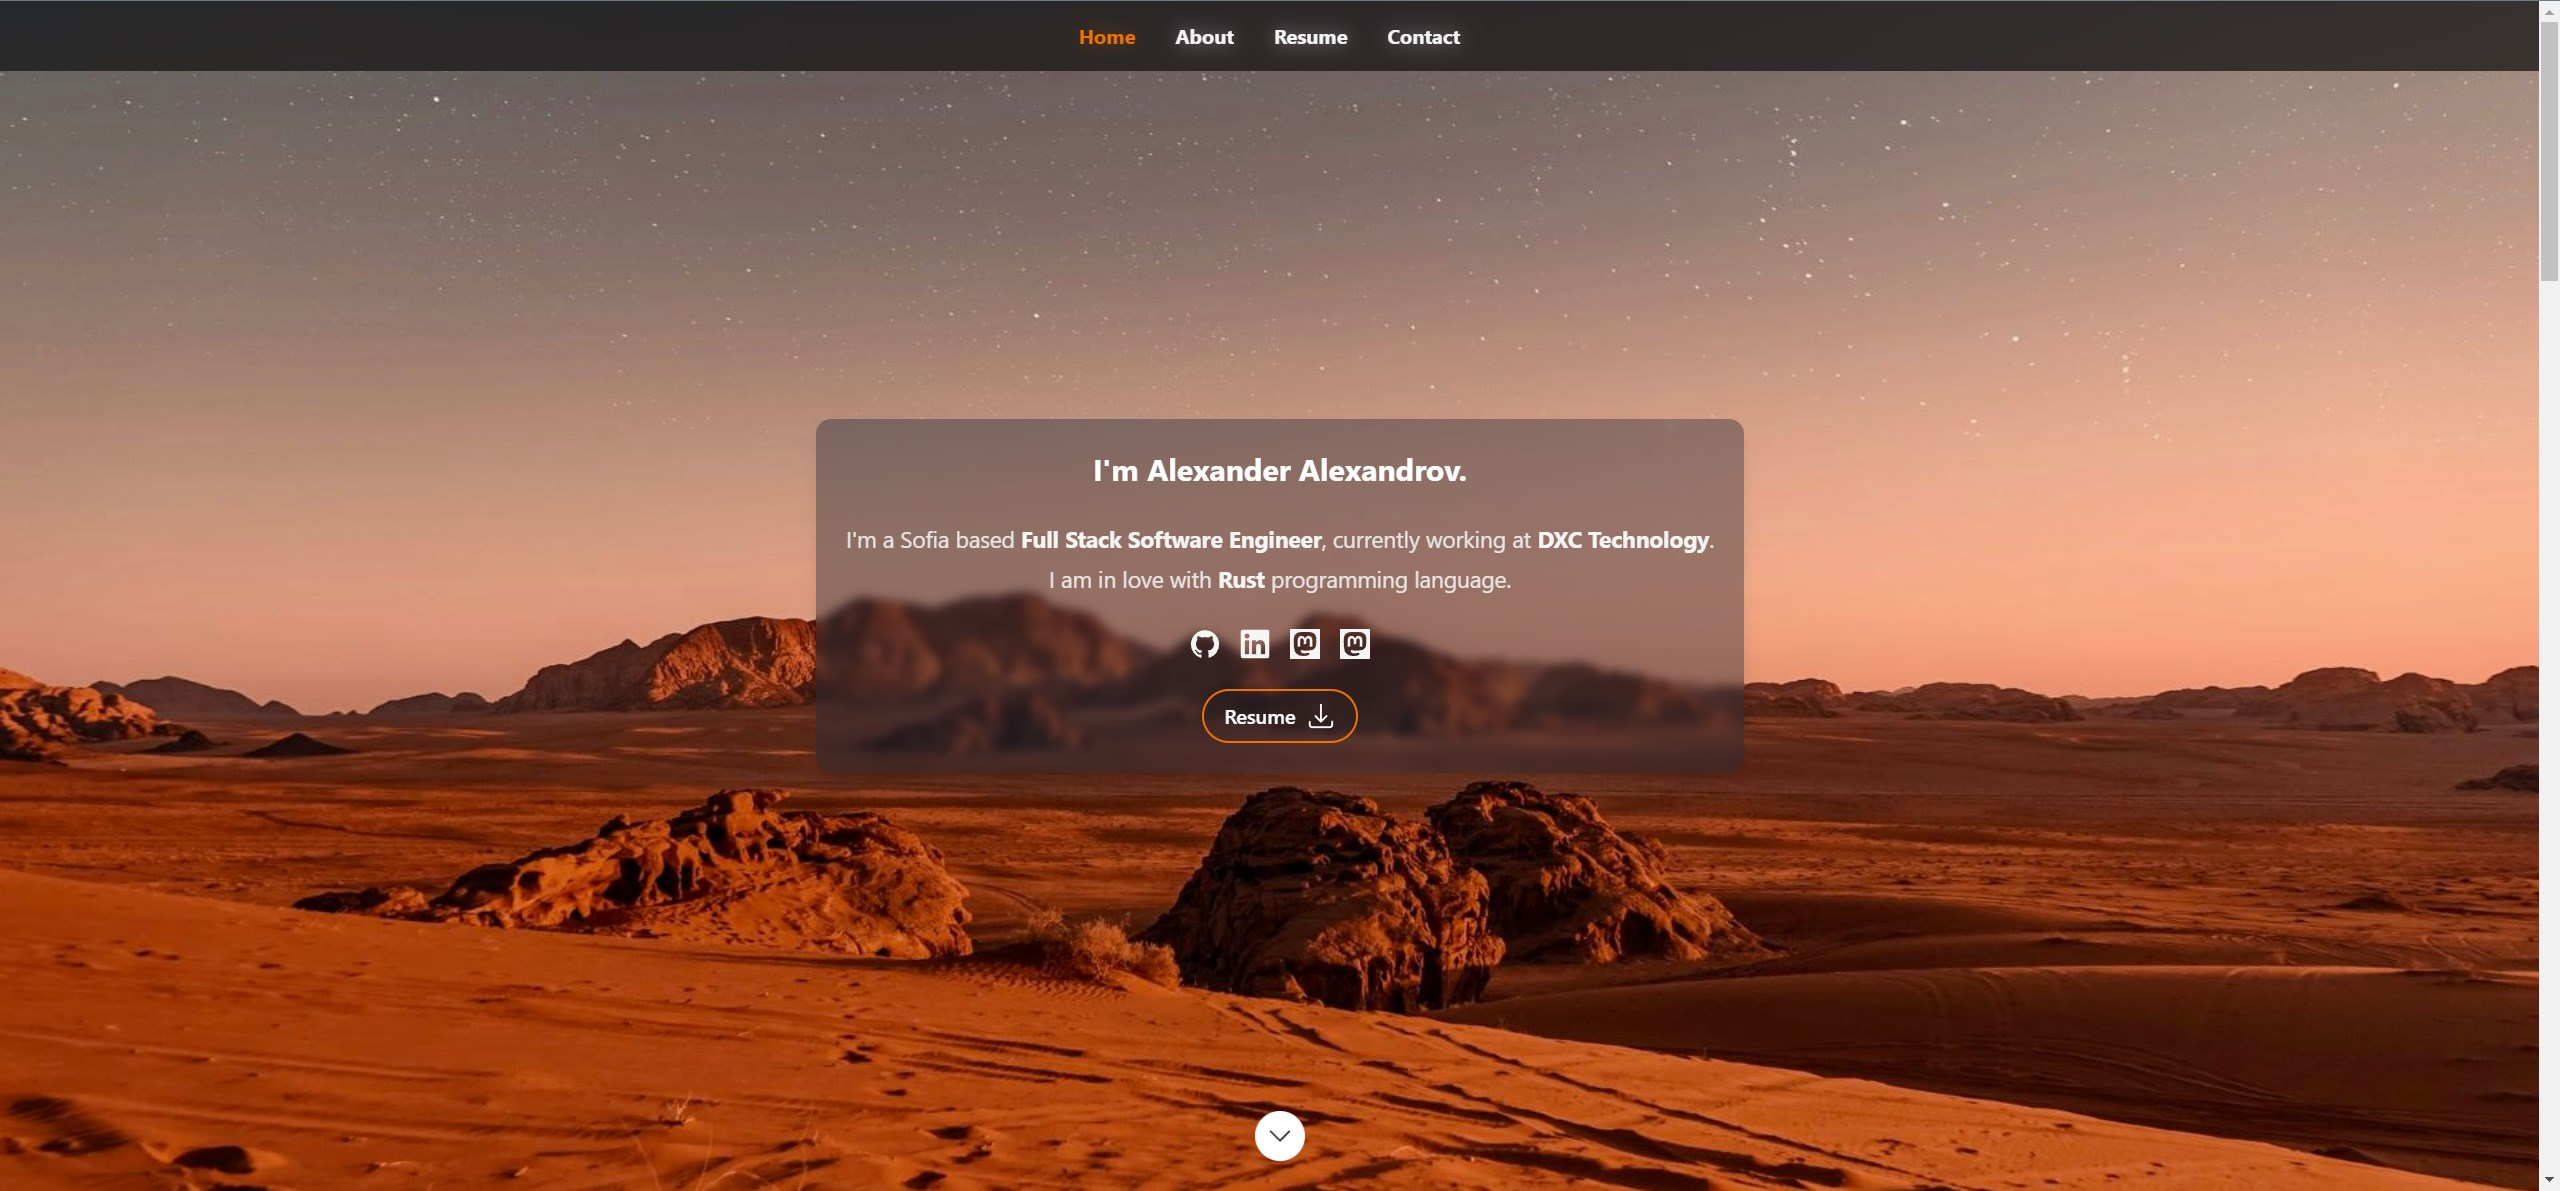
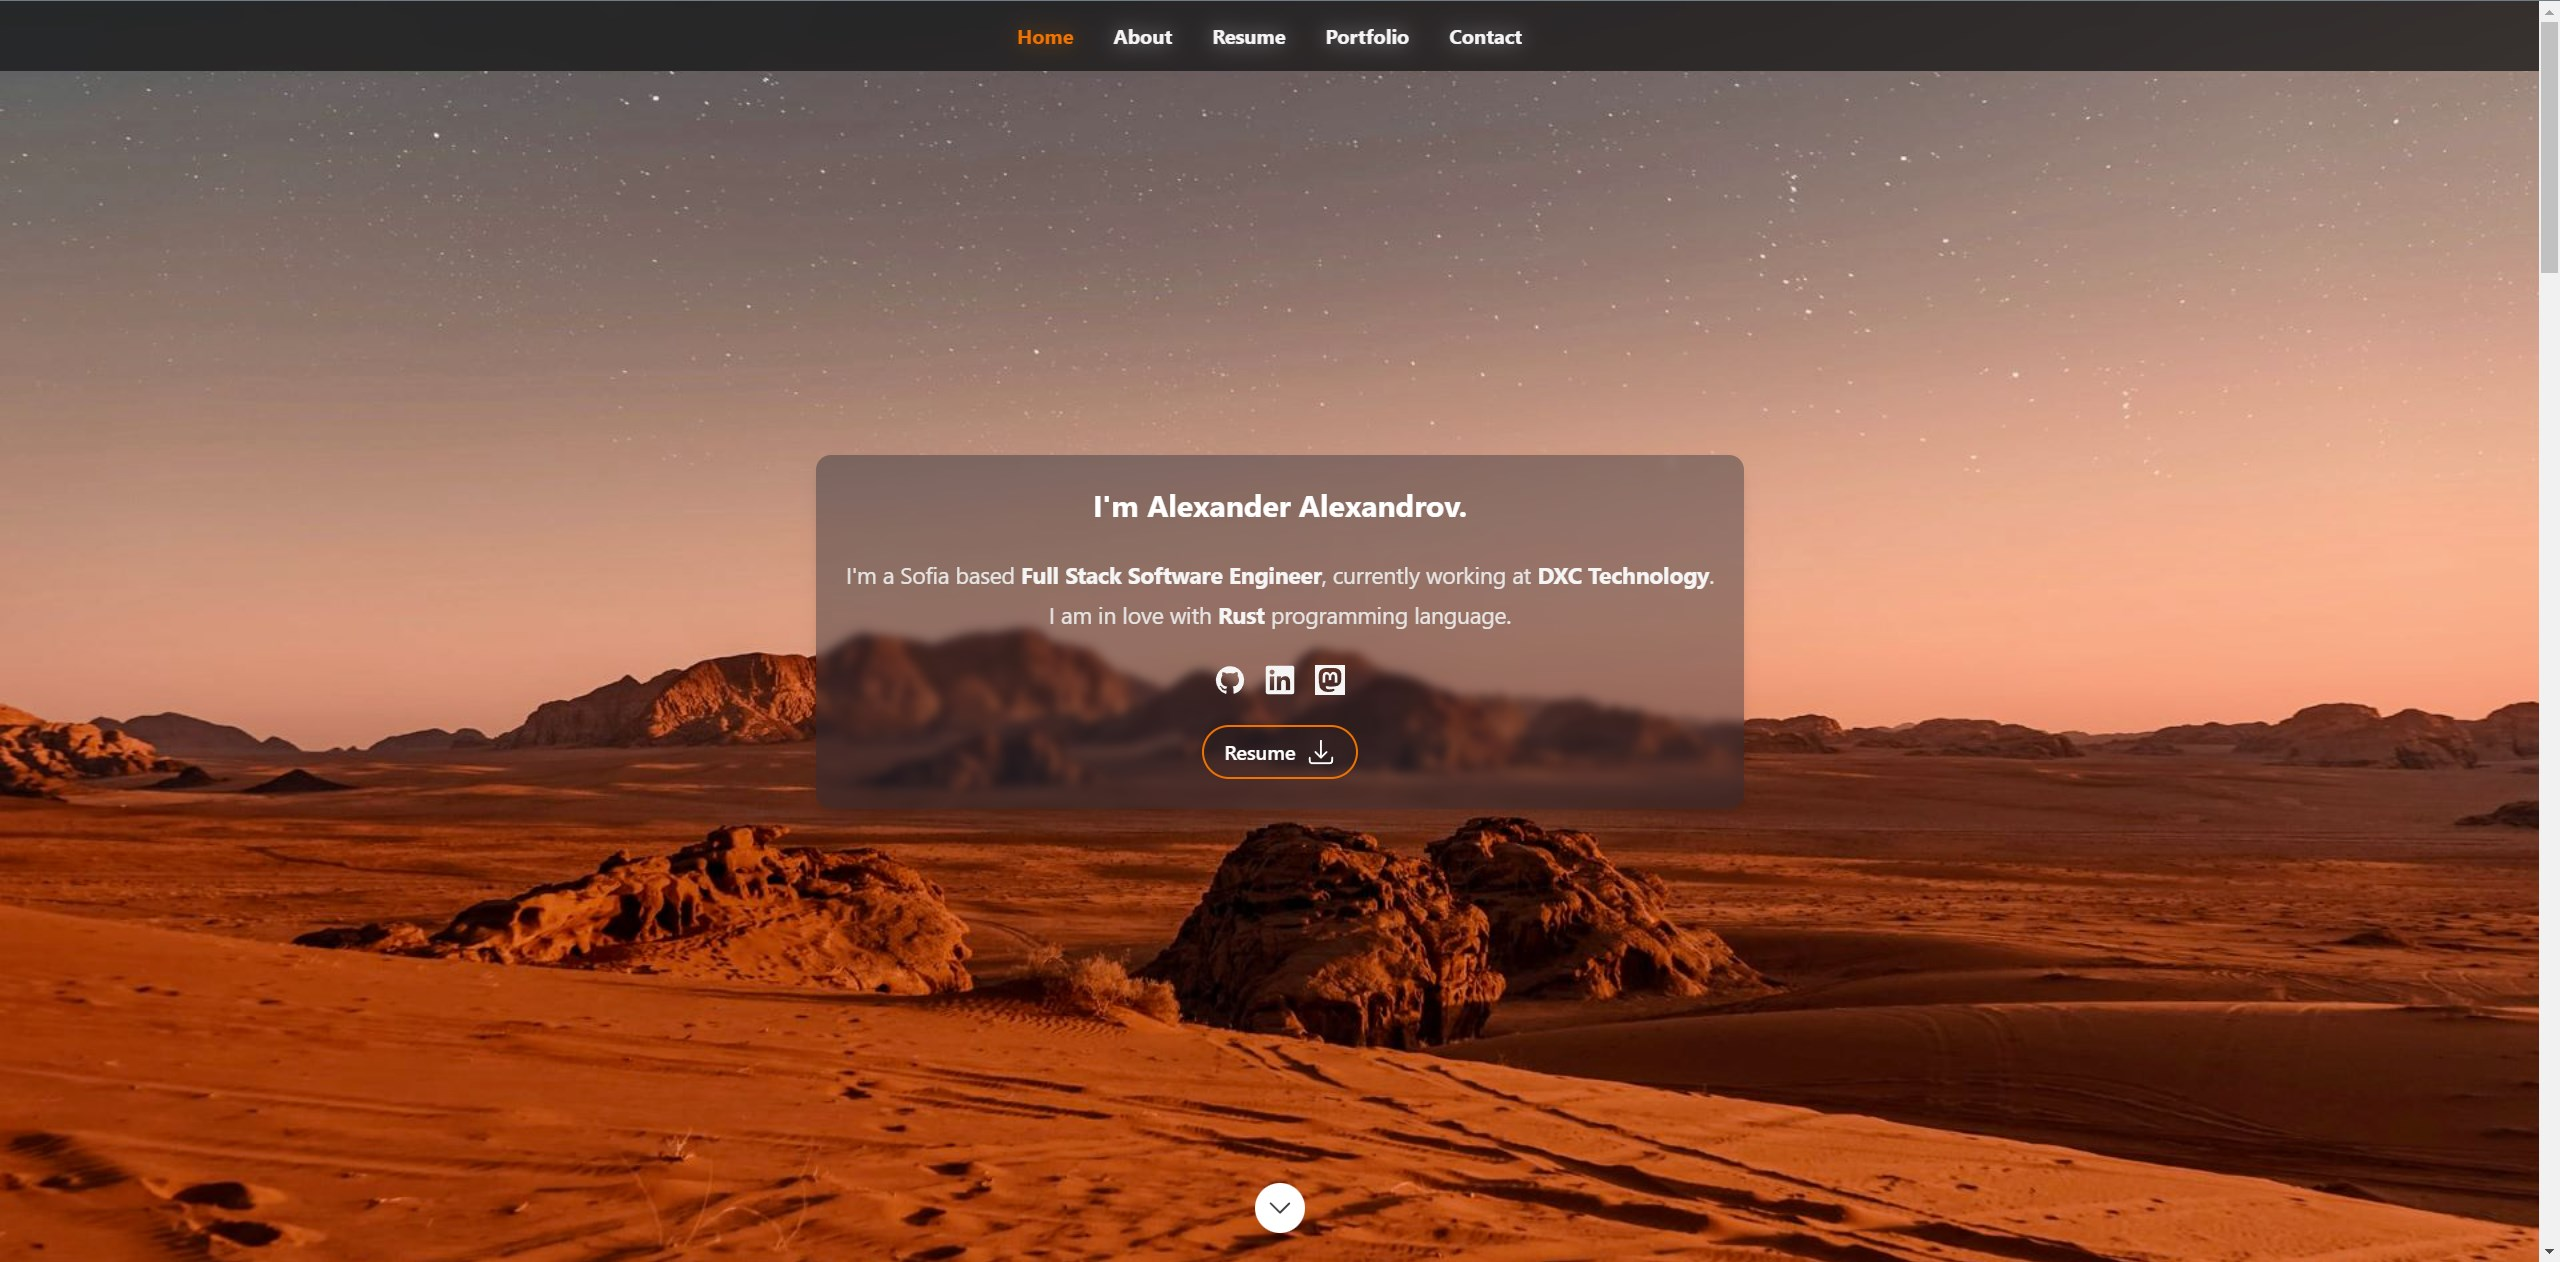
Add Portfolio section. Add Ferrocrypt to Portfolio section

diff --git a/src/components/Sections/Portfolio.tsx b/src/components/Sections/Portfolio.tsx
@@ -1,7 +1,10 @@
-import {ArrowTopRightOnSquareIcon} from '@heroicons/react/24/outline';
+import {ArrowTopRightOnSquareIcon, ChevronDownIcon} from '@heroicons/react/24/outline';
 import classNames from 'classnames';
 import Image from 'next/image';
 import {FC, memo, MouseEvent, useCallback, useEffect, useRef, useState} from 'react';
+// eslint-disable-next-line @typescript-eslint/ban-ts-comment
+// @ts-ignore
+import {Link} from 'react-scroll'
 
 import {isMobile} from '../../config';
 import {portfolioItems, SectionId} from '../../data/data';
@@ -12,24 +15,36 @@ import Section from '../Layout/Section';
 const Portfolio: FC = memo(() => {
     return (
         <Section className="bg-neutral-800" sectionId={SectionId.Portfolio}>
-            <div className="flex flex-col gap-y-8">
-                <h2 className="self-center text-xl font-bold text-white">Check out some of my work</h2>
-                <div className=" w-full columns-2 md:columns-3 lg:columns-4">
-                    {portfolioItems.map((item, index) => {
-                        const {title, image} = item;
-                        return (
-                            <div className="pb-6" key={`${title}-${index}`}>
-                                <div
-                                    className={classNames(
-                                        'relative h-max w-full overflow-hidden rounded-lg shadow-lg shadow-black/30 lg:shadow-xl',
-                                    )}>
-                                    <Image alt={title} layout="responsive" placeholder="blur" src={image}/>
-                                    <ItemOverlay item={item}/>
+            <div style={{marginBottom: -40}}>
+                <div className="flex flex-col gap-y-8">
+                    <h2 className="self-center text-xl font-bold text-white">Check out some of my work</h2>
+                    <div className=" w-full columns-2 md:columns-3 lg:columns-4">
+                        {portfolioItems.map((item, index) => {
+                            const {title, image} = item;
+                            return (
+                                <div className="pb-6" key={`${title}-${index}`}>
+                                    <div
+                                        className={classNames(
+                                            'relative h-max w-full overflow-hidden rounded-lg shadow-lg shadow-black/30 lg:shadow-xl',
+                                        )}>
+                                        <Image alt={title} layout="responsive" placeholder="blur" src={image}/>
+                                        <ItemOverlay item={item}/>
+                                    </div>
                                 </div>
-                            </div>
-                        );
-                    })}
+                            );
+                        })}
+                    </div>
                 </div>
+                <Link smooth={true} spy={true} to={SectionId.Contact}>
+                    <div className="flex justify-center">
+                        <div
+                            className="rounded-full bg-white p-1 ring-white ring-offset-2 ring-offset-gray-700/80 focus:outline-none focus:ring-2 sm:p-2"
+                            style={{cursor: "pointer"}}
+                        >
+                            <ChevronDownIcon className="h-5 w-5 bg-transparent sm:h-6 sm:w-6" />
+                        </div>
+                    </div>
+                </Link>
             </div>
         </Section>
     );

diff --git a/src/data/data.tsx b/src/data/data.tsx
@@ -12,7 +12,7 @@ import GithubIcon from '../components/Icon/GithubIcon';
 import LinkedInIcon from '../components/Icon/LinkedInIcon';
 import MastodonIcon from '../components/Icon/MastodonIcon';
 import homeImage from '../images/home-background.jpg';
-import portfolioImage1 from '../images/portfolio/portfolio-1.jpg';
+import portfolioImage1 from '../images/portfolio/ferrocrypt_screenshot.png';
 import profilePic from '../images/profilepic.jpg';
 import testimonialImage from '../images/testimonial.webp';
 import {
@@ -212,9 +212,9 @@ export const skills: SkillGroup[] = [
  */
 export const portfolioItems: PortfolioItem[] = [
     {
-        title: 'Project title 1',
-        description: 'Give a short description of your project here.',
-        url: 'https://timbaker.me',
+        title: 'Ferrocrypt',
+        description: 'Tiny, easy-to-use, and incredibly secure multiplatform encryption tool with CLI (Command Line Interface) and GUI (Graphical User Interface)',
+        url: 'https://github.com/alexylon/Ferrocrypt',
         image: portfolioImage1,
     },
 ];
@@ -344,11 +344,11 @@ export const contact: ContactSection = {
             text: '@aal@fosstodon.org',
             href: 'https://fosstodon.org/@aal',
         },
-        {
-            type: ContactType.Mastodon2,
-            text: '@aal@ohai.social',
-            href: 'https://ohai.social/@aal',
-        },
+        // {
+        //     type: ContactType.Mastodon2,
+        //     text: '@aal@ohai.social',
+        //     href: 'https://ohai.social/@aal',
+        // },
         {
             type: ContactType.Github,
             text: 'alexylon',
@@ -369,5 +369,5 @@ export const socialLinks: Social[] = [
     {label: 'Github', Icon: GithubIcon, href: 'https://github.com/alexylon'},
     {label: 'LinkedIn', Icon: LinkedInIcon, href: 'https://www.linkedin.com/in/alexandrovalexander/'},
     {label: 'Mastodon 1', Icon: MastodonIcon, href: 'https://fosstodon.org/@aal', rel: "me"},
-    {label: 'Mastodon 2', Icon: MastodonIcon, href: 'https://ohai.social/@aal', rel: "me"},
+    // {label: 'Mastodon 2', Icon: MastodonIcon, href: 'https://ohai.social/@aal', rel: "me"},
 ];

diff --git a/src/pages/index.tsx b/src/pages/index.tsx
@@ -6,7 +6,7 @@ import About from '../components/Sections/About';
 import Contact from '../components/Sections/Contact';
 import Footer from '../components/Sections/Footer';
 import Home from '../components/Sections/Home';
-// import Portfolio from '../components/Sections/Portfolio';
+import Portfolio from '../components/Sections/Portfolio';
 import Resume from '../components/Sections/Resume';
 // import Testimonials from '../components/Sections/Testimonials';
 
@@ -23,7 +23,7 @@ const WebPage: FC = memo(() => {
             <Home/>
             <About/>
             <Resume/>
-            {/*<Portfolio />*/}
+            <Portfolio />
             {/*<Testimonials />*/}
             <Contact/>
             <Footer/>

diff --git a/src/components/Sections/Footer.tsx b/src/components/Sections/Footer.tsx
@@ -23,7 +23,7 @@ const Footer: FC = memo(() => (
             <div className="flex gap-x-4 text-neutral-400">
                 <Socials/>
             </div>
-            <span className="text-sm text-neutral-500">© Copyright 2022 Alexander Alexandrov</span>
+            <span className="text-sm text-neutral-500">© Copyright 2023 Alexander Alexandrov</span>
             <div className="text-sm text-neutral-500"><a href="https://github.com/alexylon/alexander-alexandrov-website">source code</a></div>
         </div>
     </div>

diff --git a/src/components/Sections/Resume/index.tsx b/src/components/Sections/Resume/index.tsx
@@ -34,7 +34,7 @@ const Resume: FC = memo(() => {
                         ))}
                     </ResumeSection>
                 </div>
-                <Link smooth={true} spy={true} to={SectionId.Contact}>
+                <Link smooth={true} spy={true} to={SectionId.Portfolio}>
                 <div className="flex justify-center">
                     <div
                         className="rounded-full bg-[#262626] p-1 ring-white ring-offset-2 ring-offset-gray-700/80 focus:outline-none focus:ring-2 sm:p-2"

diff --git a/src/components/Sections/Header.tsx b/src/components/Sections/Header.tsx
@@ -12,7 +12,7 @@ export const headerID = 'headerNav';
 
 const Header: FC = memo(() => {
     const navSections = useMemo(
-        () => [SectionId.Home, SectionId.About, SectionId.Resume, SectionId.Contact],
+        () => [SectionId.Home, SectionId.About, SectionId.Resume, SectionId.Portfolio, SectionId.Contact],
         [],
     );
 
